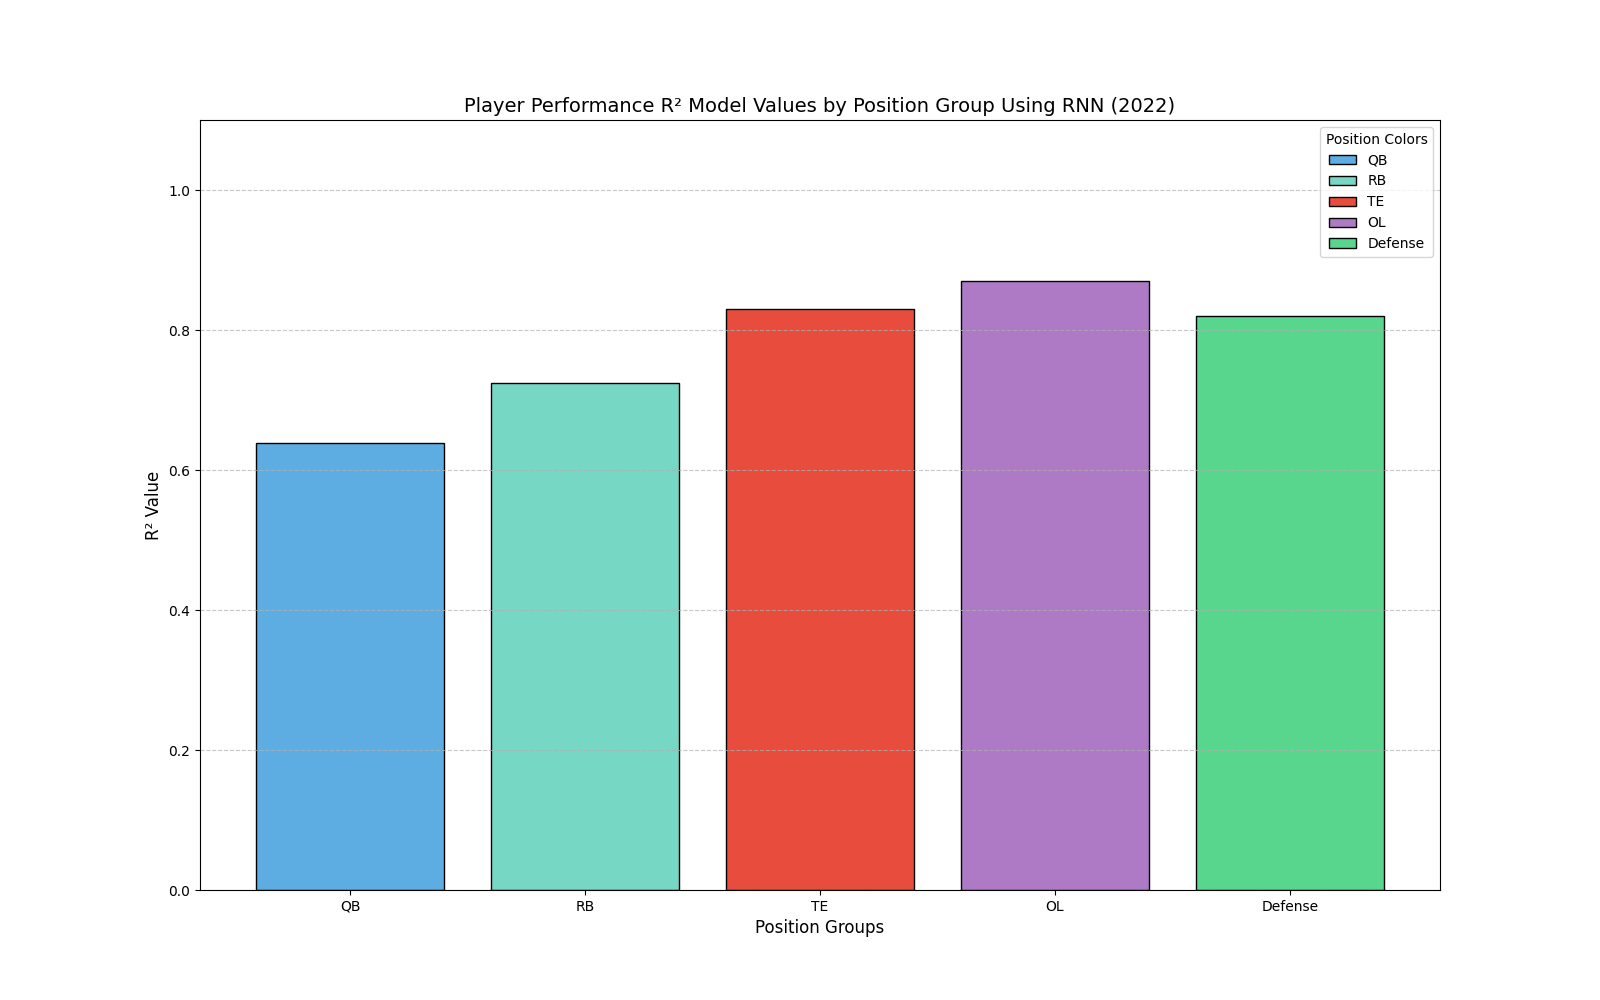
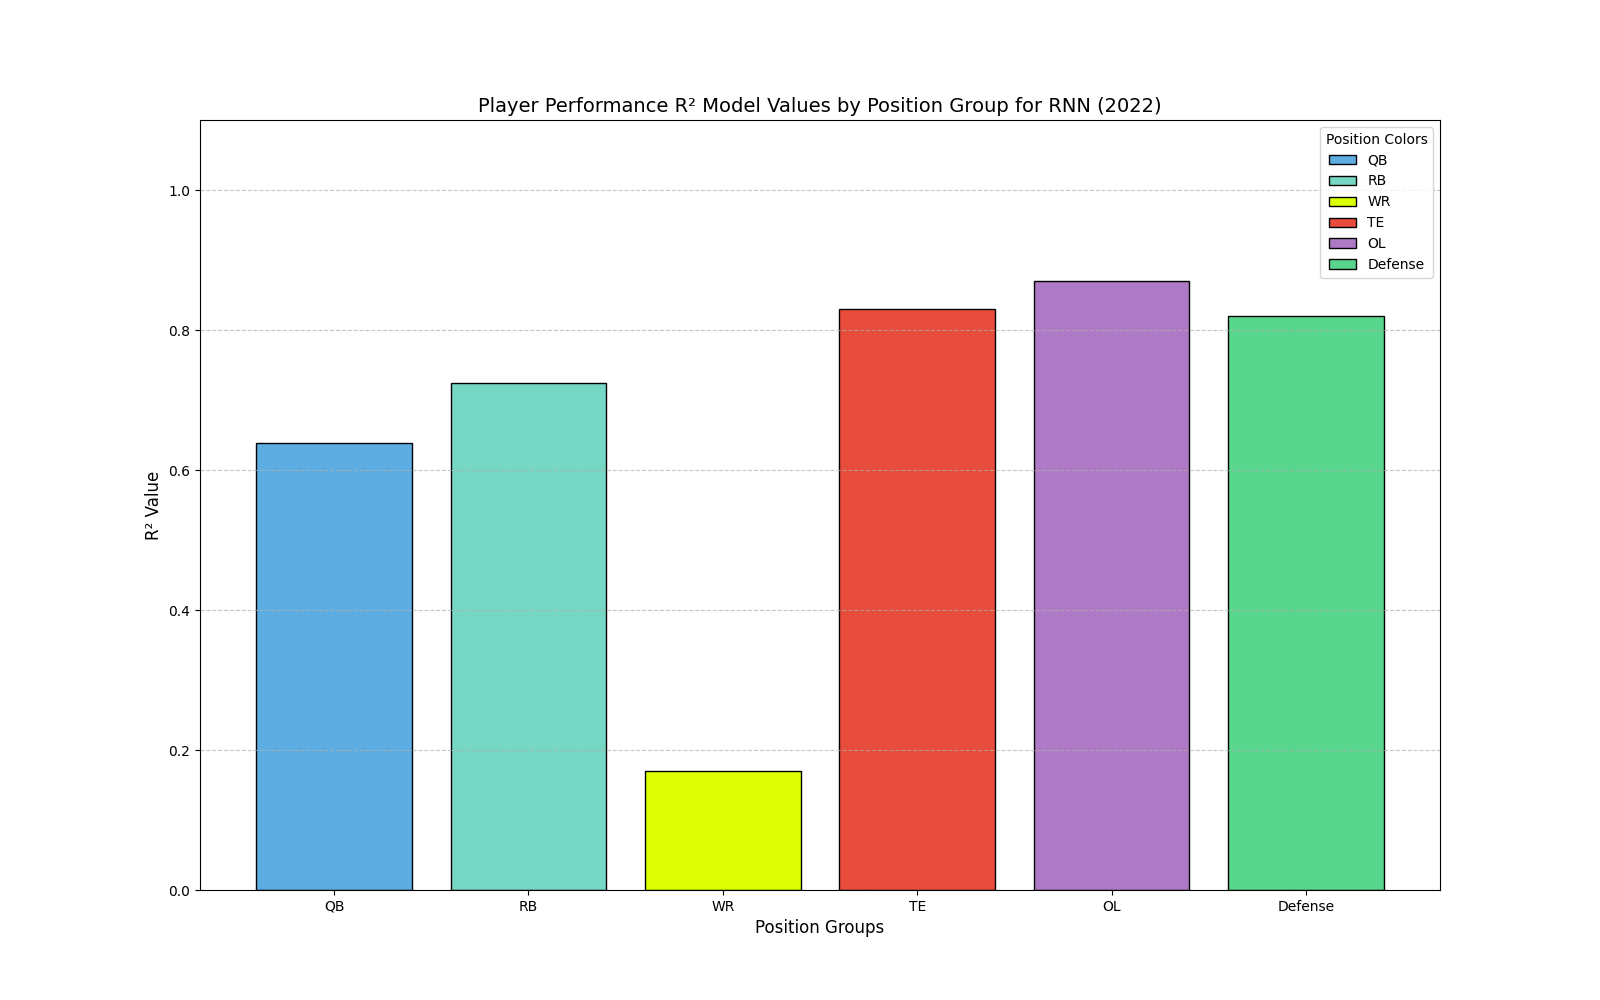
Fixed RNN graph

diff --git a/rsquare_graph.py b/rsquare_graph.py
@@ -5,6 +5,8 @@ r_square_val_dict = {
 
     "RB": 0.724,
 
+    "WR": 0.17,
+
     "TE": 0.83,
 
     "OL": 0.87,
@@ -16,11 +18,12 @@ positions = list(r_square_val_dict.keys())
 r_square_values = list(r_square_val_dict.values())
 # Define colors for each position group
 colors = {
-    "QB": "#5DADE2",  # Light Blue
-    "RB": "#76D7C4",  # Mint Green
-    "TE": "#E74C3C",  # Neon Red
-    "OL": "#AF7AC5",  # Purple
-    "Defense": "#58D68D"  # Neon Green
+    "QB": "#5DADE2",       # Light Blue
+    "RB": "#76D7C4",       # Mint Green
+    "WR": "#DDFF03",       # Neon Green
+    "TE": "#E74C3C",       # Neon Red
+    "OL": "#AF7AC5",       # Purple
+    "Defense": "#58D68D"   # Neon
 }
 bar_colors = [colors[pos] for pos in positions]  # Map colors to positions
 
@@ -31,7 +34,7 @@ bars = plt.bar(positions, r_square_values, color=bar_colors, edgecolor='black')
 # Add labels and title
 plt.xlabel('Position Groups', fontsize=12)
 plt.ylabel('R² Value', fontsize=12)
-plt.title('Player Performance R² Model Values by Position Group Using RNN (2022)', fontsize=14)
+plt.title('Player Performance R² Model Values by Position Group for RNN (2022)', fontsize=14)
 plt.ylim(0, 1.1)  # Set y-axis limit to show the full range of R² values
 
 plt.grid(axis='y', linestyle='--', alpha=0.7)
